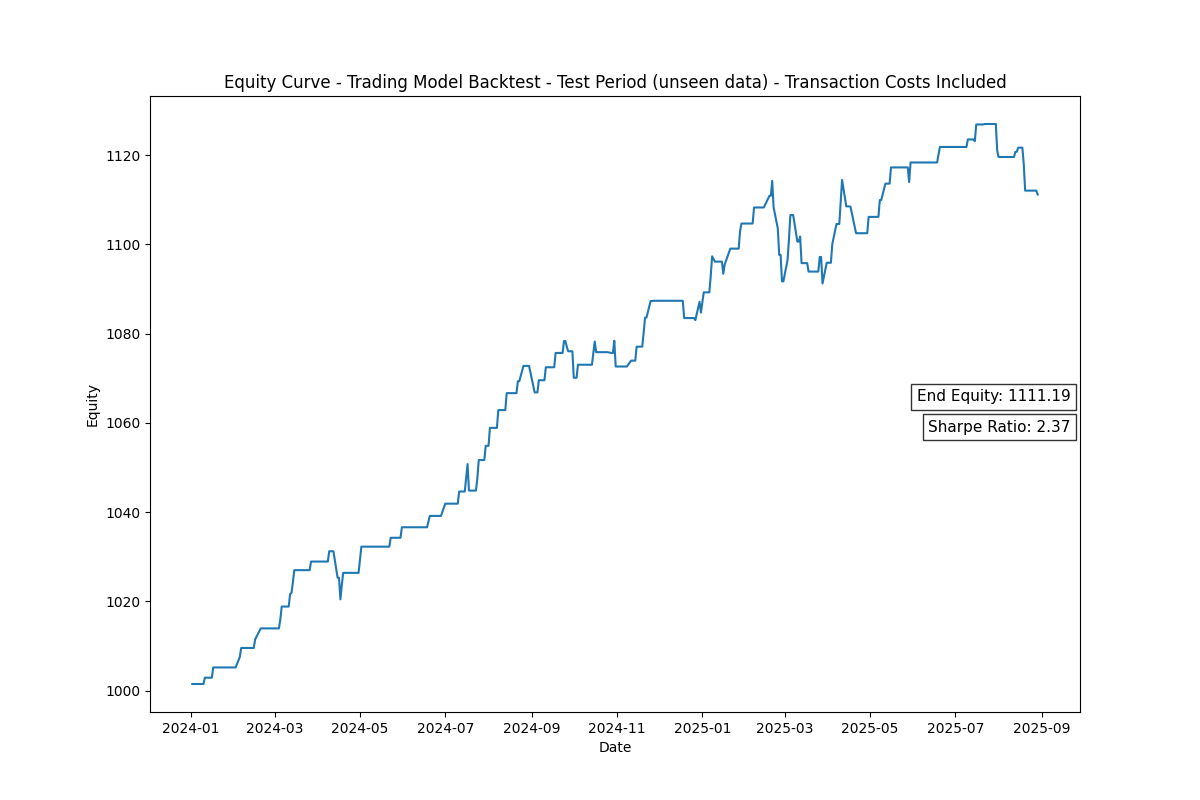
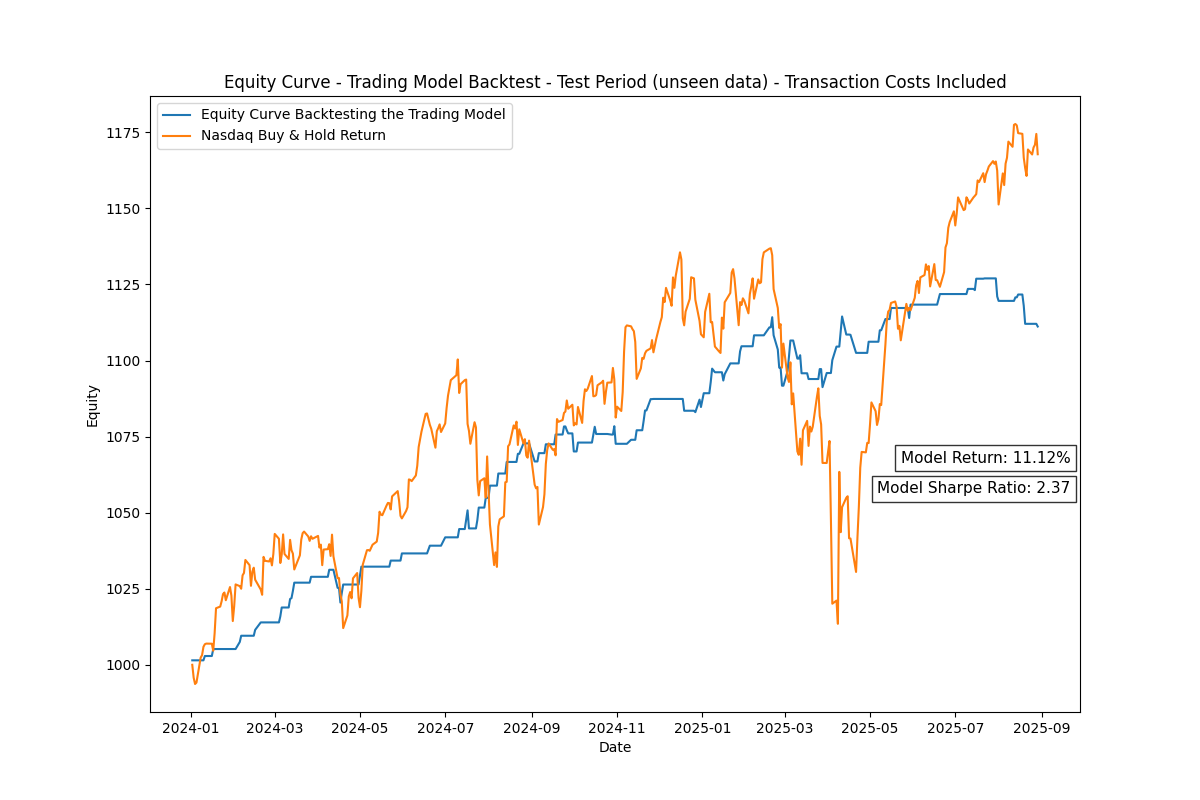
Changed

diff --git a/src/d_backtest/d4_trading_model_test.py b/src/d_backtest/d4_trading_model_test.py
@@ -106,22 +106,26 @@ def trading_model_test():
     ax.set_title("Equity Curve - Trading Model Backtest - Test Period (unseen data)")
     ax.set_xlabel("Date")
     ax.set_ylabel("Equity")
+
+    # calculate the return
     end_equity = equity[-1]
-    equity_str = f"End Equity: {end_equity:.2f}"
+    end_return = (end_equity / 1000.0 - 1) * 100
+    return_str = f"Return: {end_return:.2f}%"
+
     ax.text(
-        0.99, 0.5, equity_str, transform=ax.transAxes, fontsize=11, va="bottom", ha="right",
+        0.99, 0.4, return_str, transform=ax.transAxes, fontsize=11, va="bottom", ha="right",
         bbox=dict(facecolor="white", alpha=0.8, edgecolor="black"),
     )
     sharpe_ratio_str = f"Sharpe Ratio: {sharpe_ratio:.2f}"
     ax.text(
-        0.99, 0.45, sharpe_ratio_str, transform=ax.transAxes, fontsize=11, va="bottom", ha="right",
+        0.99, 0.35, sharpe_ratio_str, transform=ax.transAxes, fontsize=11, va="bottom", ha="right",
         bbox=dict(facecolor="white", alpha=0.8, edgecolor="black"),
     )
 
-    plt.savefig('images/equity_curve_test.png')
+    plt.savefig('results/plots/equity_curve_test.png')
     plt.show()
 
-    # visualize the performance of the trading model with transaction costs
+    # include the transaction costs in the equity curve
     equity_for_costs = pd.Series(equity)
     equity_diffs = equity_for_costs.diff().dropna()
     equity_costs = [1000.0]
@@ -132,28 +136,41 @@ def trading_model_test():
             equity_costs.append((i - 0.1) + equity_costs[-1])
     equity_costs_series = pd.Series(equity_costs[1:])
 
+    # Nasdaq buy and hold return for comparison
+    nasdaq = close.close
+    nasdaq_return = nasdaq + 1000.0 - nasdaq.iloc[0]
+
+    # visualize the performance of the trading model including transaction costs
     fig, ax = plt.subplots(figsize=(12, 8))
-    ax.plot(date_parsed, equity_costs_series)
+    ax.plot(date_parsed, equity_costs_series, label='Equity Curve Backtesting the Trading Model')
+    ax.plot(date_parsed, nasdaq_return, label='Nasdaq Buy & Hold Return')
+    ax.legend(loc='upper left')
     ax.set_title("Equity Curve - Trading Model Backtest - Test Period (unseen data) - Transaction Costs Included")
     ax.set_xlabel("Date")
     ax.set_ylabel("Equity")
+
+    # calculate the return
     end_equity_costs = equity_costs[-1]
-    equity_costs_str = f"End Equity: {end_equity_costs:.2f}"
+    end_return_costs = (end_equity_costs / 1000.0 - 1) * 100
+    return_costs_str = f"Model Return: {end_return_costs:.2f}%"
+
     ax.text(
-        0.99, 0.5, equity_costs_str, transform=ax.transAxes, fontsize=11, va="bottom", ha="right",
+        0.99, 0.40, return_costs_str, transform=ax.transAxes, fontsize=11, va="bottom", ha="right",
         bbox=dict(facecolor="white", alpha=0.8, edgecolor="black"),
     )
 
+    # calculate the sharpe ratio
     equity_sharp_costs = pd.Series(equity_costs)
     daily_returns_costs = equity_sharp_costs.pct_change().dropna()
     sharpe_ratio_costs = daily_returns_costs.mean() / daily_returns_costs.std(ddof=1) * np.sqrt(252)
-    sharpe_ratio_costs_str = f"Sharpe Ratio: {sharpe_ratio_costs:.2f}"
+    sharpe_ratio_costs_str = f"Model Sharpe Ratio: {sharpe_ratio_costs:.2f}"
+
     ax.text(
-        0.99, 0.45, sharpe_ratio_costs_str, transform=ax.transAxes, fontsize=11, va="bottom", ha="right",
+        0.99, 0.35, sharpe_ratio_costs_str, transform=ax.transAxes, fontsize=11, va="bottom", ha="right",
         bbox=dict(facecolor="white", alpha=0.8, edgecolor="black"),
     )
 
-    plt.savefig('images/equity_curve_costs_test.png')
+    plt.savefig('results/plots/equity_curve_costs_test.png')
     plt.show()
 
 if __name__ == "__main__":

diff --git a/src/d_backtest/d3_trading_model_final.py b/src/d_backtest/d3_trading_model_final.py
@@ -78,21 +78,23 @@ def trading_model_final():
     ax.set_title("Equity Curve - Trading Model Backtest - Validation Period")
     ax.set_xlabel("Date")
     ax.set_ylabel("Equity")
+
+    # calculate the return
     end_equity = equity[-1]
-    equity_str = f"End Equity: {end_equity:.2f}"
+    end_return = (end_equity / 1000.0 - 1) * 100
+    return_str = f"Return: {end_return:.2f}%"
+
     ax.text(
-        0.99, 0.5, equity_str, transform=ax.transAxes, fontsize=11, va="bottom", ha="right",
+        0.99, 0.4, return_str, transform=ax.transAxes, fontsize=11, va="bottom", ha="right",
         bbox=dict(facecolor="white", alpha=0.8, edgecolor="black"),
     )
     sharpe_ratio_str = f"Sharpe Ratio: {sharpe_ratio:.2f}"
     ax.text(
-        0.99, 0.45, sharpe_ratio_str, transform=ax.transAxes, fontsize=11, va="bottom", ha="right",
+        0.99, 0.35, sharpe_ratio_str, transform=ax.transAxes, fontsize=11, va="bottom", ha="right",
         bbox=dict(facecolor="white", alpha=0.8, edgecolor="black"),
     )
-    plt.savefig('images/equity_curve_val.png')
+    plt.savefig('results/plots/equity_curve_val.png')
     plt.show()
-    #print(f"sharpe ratio: {sharpe_ratio}")
-    #print(f"average size of winning trades: {equity_spread.abs().mean()}")
 
 if __name__ == "__main__":
     trading_model_final()

diff --git a/README.md b/README.md
@@ -6,7 +6,7 @@ of the Invesco QQQ ETF and further utilizing this prediction in a trading model.
 ## Note on Feasibility
 The price related data used, comes from EODHD and cannot be uploaded or shared due to license restrictions. Therefore, the code is **not directly executable**.
 If you want to execute the code yourself you need to get a subscription at EODHD.
---> Click [here](docs/instructions.md) for instruction
+--> Click [here](docs/instructions.md) for instructions
 
 As an alternative, I included example outputs (plots in PNG format and metrics in MD format) to make the workflow and results more understandable.
 --> See [here](results/results.md)
@@ -33,13 +33,13 @@ predictions to trade
 ## Results
 **Evaluation Period: 01.01.2024 - 31.08.2025**
 - Out-of-Sample Return: 11.12%
+- The model does not yield as good returns as the Nasdaq, tough it ensures way less risk with a still solid return
 
 ![Equity_curve](results/plots/equity_curve_costs_test.png)
 
 ## Next Steps
 
 - Testing the model on real-time data
-- Evolving the tuning of the Trading Model and potentially the training of the ML Model into a rolling
-window approach
+- Evolving the tuning process of the Trading Model into a rolling window approach
 
 **Click [here](docs/technical_insights.md) to dive deeper into the technical aspects of the project** 

diff --git a/docs/technical_insights.md b/docs/technical_insights.md
@@ -148,6 +148,7 @@ which is one of the most liquid ETFs with typical round-trip costs closer to 0.0
 - **Caveats & Considerations** : The backtesting results with transaction costs included are only a rough approximation 
 and may deviate from real-world performance. By comparing the trading model's performance on the validation and test sets, it appears that the model overfitted to the validation data.  
 Nonetheless, it still demonstrates strong performance on the test set, indicating reasonable out-of-sample robustness.
-The high Sharpe Ratio suggests broad opportunities for applying leverage, though the robustness of this metric should be continuously validated. 
+Even though, the model does not yield a return good as the Nasdaq, it ensures way less volatility with a solid return.
+Also, the high Sharpe Ratio suggests broad opportunities for applying leverage to boost returns, this also boosts risk in the same aspect though. 
 Since the trading model’s parameters are tuned to the error distribution of the machine learning model within a specific range, 
 a rolling window approach is likely required to adapt the strategy to changing market conditions and evolving error distributions.
